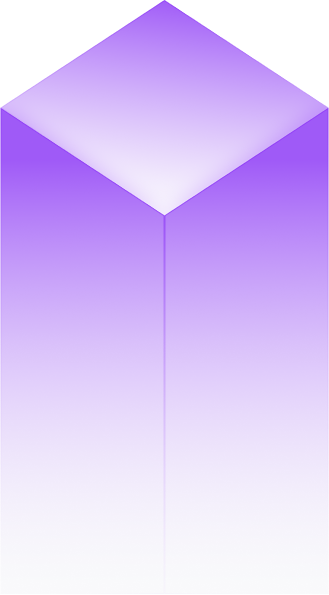
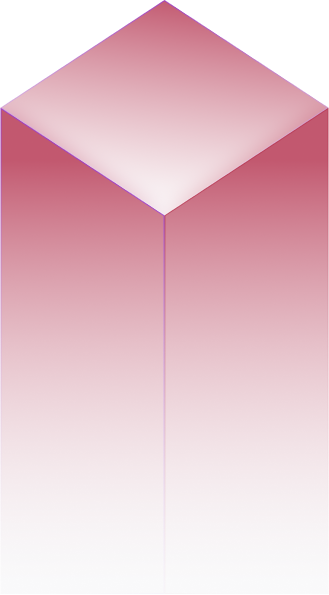
colors

diff --git a/src/index.css b/src/index.css
@@ -3,7 +3,7 @@
   --light: #d1606b;
   --normal: #b4304c;
   --dark: #42100c;
-  --grey: #7a7d9c;
+  --grey: #948182;
   --heading-font: Inter;
   --body-font: Manrope;
 }
